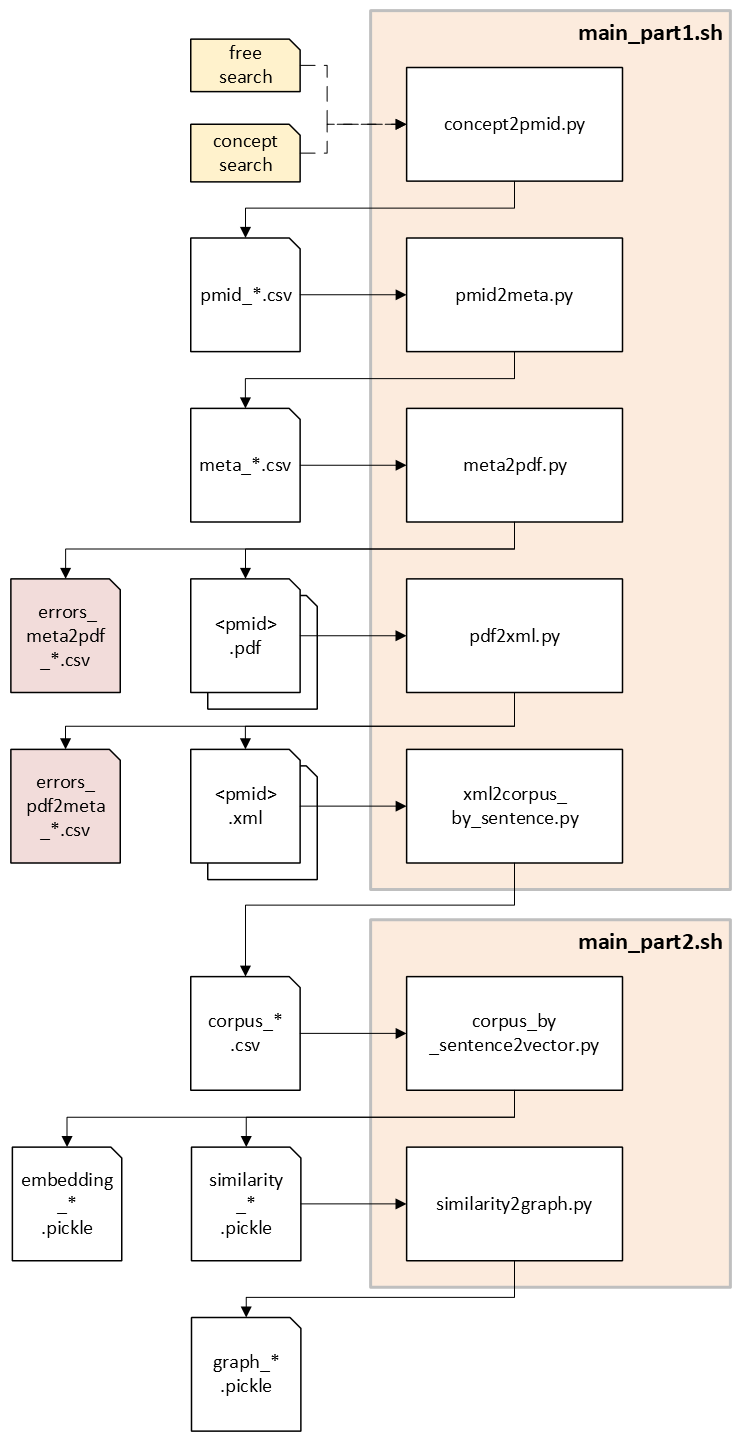
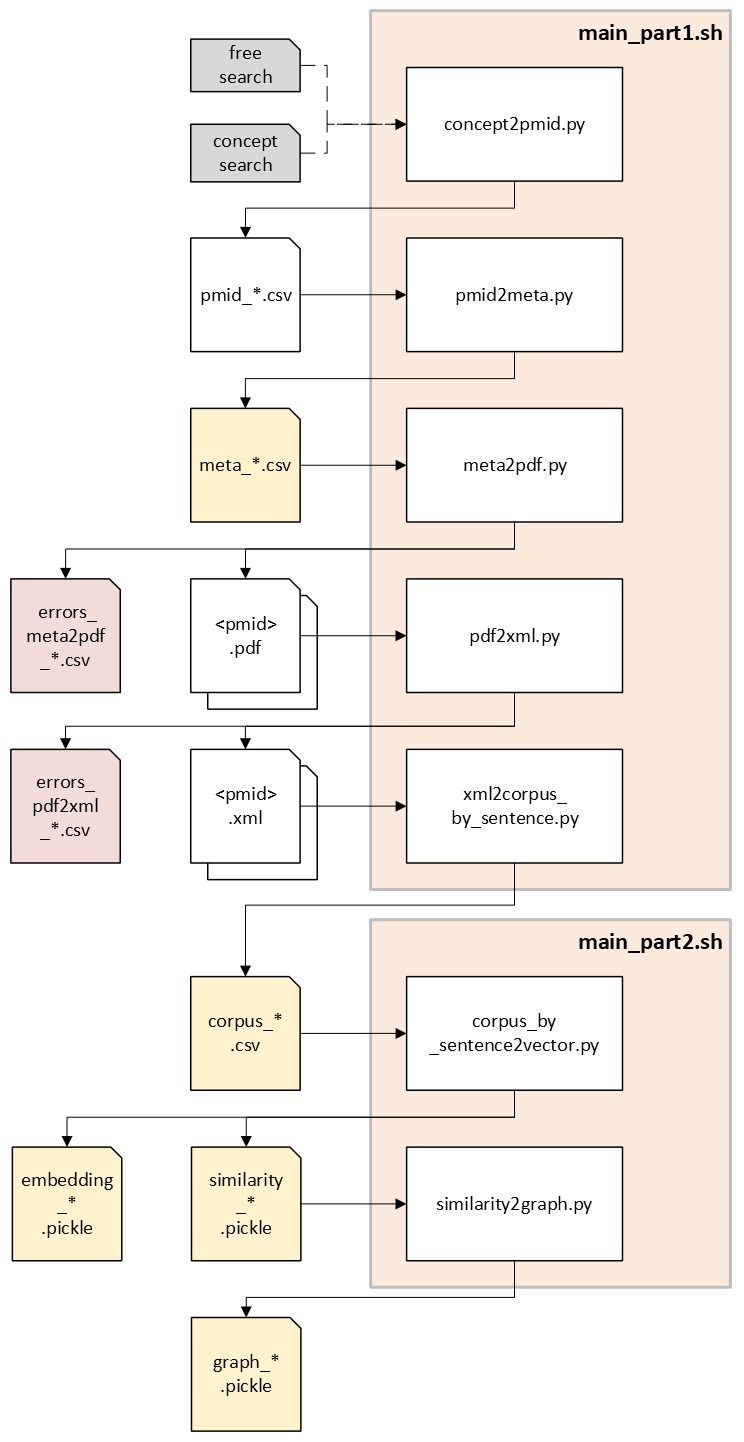
Improved flowchart visualisation

diff --git a/README.md b/README.md
@@ -16,7 +16,7 @@ https://apimlqv2.tenwiseservice.nl/html/index.html
 - Change settings in `main_part1.sh` and `main_part2.sh`. Make sure they both use the same settings and check if pipes of interest are active.
 - If pdf2xml.py is active in `main_part1.sh`; make sure to activate the GROBID server by running `bash start_grobid_a19.sh` first, before running `main_part1.sh`. (Check with `curl <servername>:<portname>` if GROBID is alive.)
 
-**NOTE: There are two separate 'main' scripts. `main_part1.sh` runs on assemblix2019 (CPU heavy) and `main_part2.sh` runs on assemblix2025 (GPU heavy).**
+**NOTE: There are two separate 'main' scripts. `main_part1.sh` runs on assemblix2019 (CPU heavy) and `main_part2.sh` runs on assemblix2025 (GPU heavy). For GROBID to work, run `start_grobid_a19.sh` on the same device as `main_part1.sh` will be running.**
 
 - Run the application by entering `bash main_part1.sh && sbatch main_part2.sh` in the terminal. Log files will be create and can be found in `logs/`.
   
@@ -86,14 +86,14 @@ In `data/` the following new folders will be created; corpus, graphs, meta, pdf_
 - GROBID: lfoppiano/grobid:0.8.1 
 - Sphinx: version 8.2.3
 
-## Storage requirements
+## Hardware requirements
 It is recommended to have at least 6.0 GB space available in the storage medium.
 Of all the folders in this pipeline, `data/` will be the largest regarding disk usage, where the similarity matrix (`similarity_*.pickle`) in `data/vectors/` will take most space. As an indication, a corpus with 30483 sentences of 152 papers will generate a similarity matrix of ~3.5 GB.
 
 ## Flowchart
 <img src="./docs/source/pipeline_flowchart.png" width=500>
 
-Flowchart of the pipeline. The orange boxes depict the shell scripts containing various Python scripts. The first input, in yellow, is either a concept file or a free search term string. Various files are created by the scripts, were the asterisk represents the given experiment name.
+Flowchart of the OKE pipeline. Orange boxes represent shell scripts that execute multiple Python scripts. The initial input, shown in grey, is either a concept file or a free-text search term. Various files are generated by these scripts, where an asterisk denotes the experiment name. Error files are shown in red, while files in yellow are subsequently used by notebooks located in /explorations for further analysis.
 
 ## Data source
 _TenWise KMAP:_
